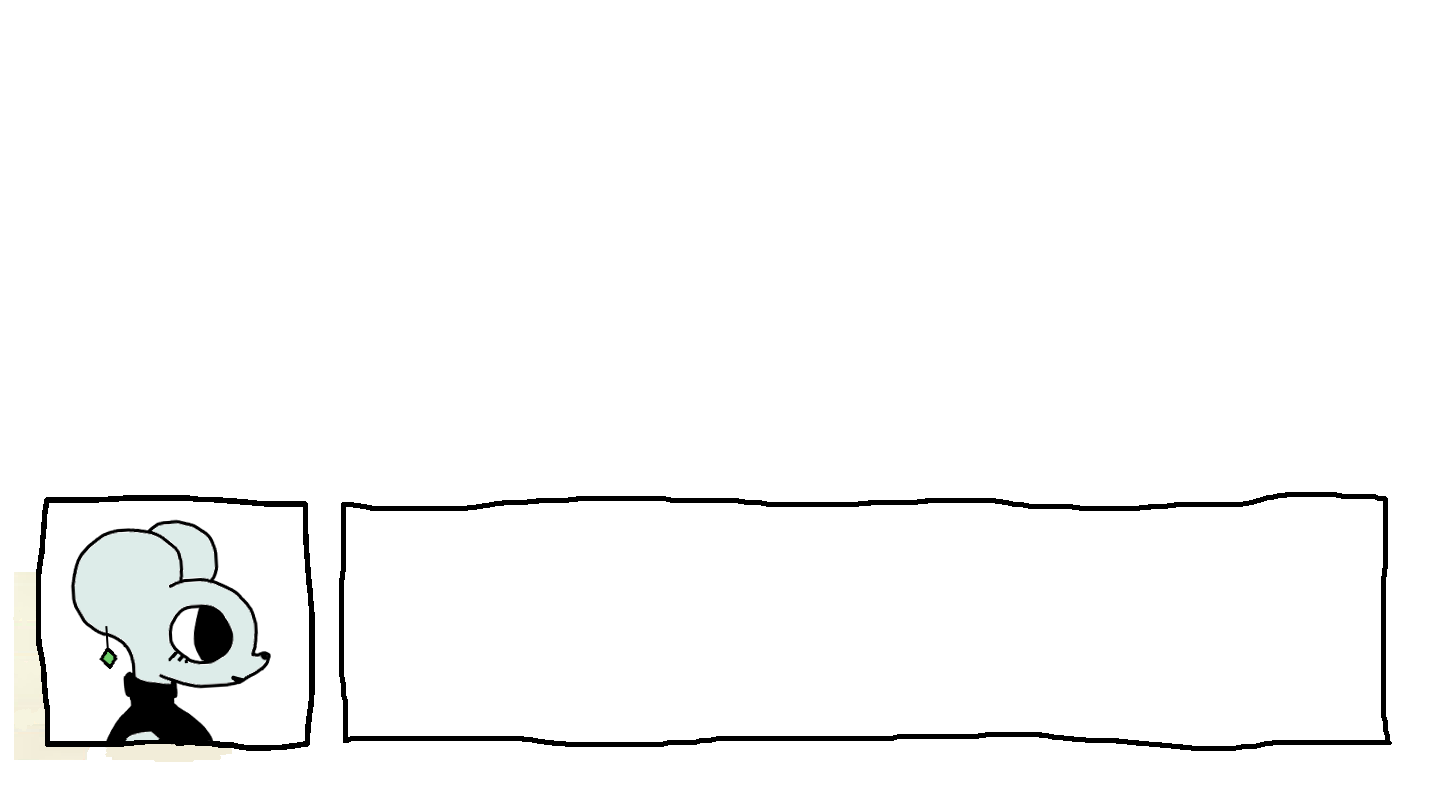
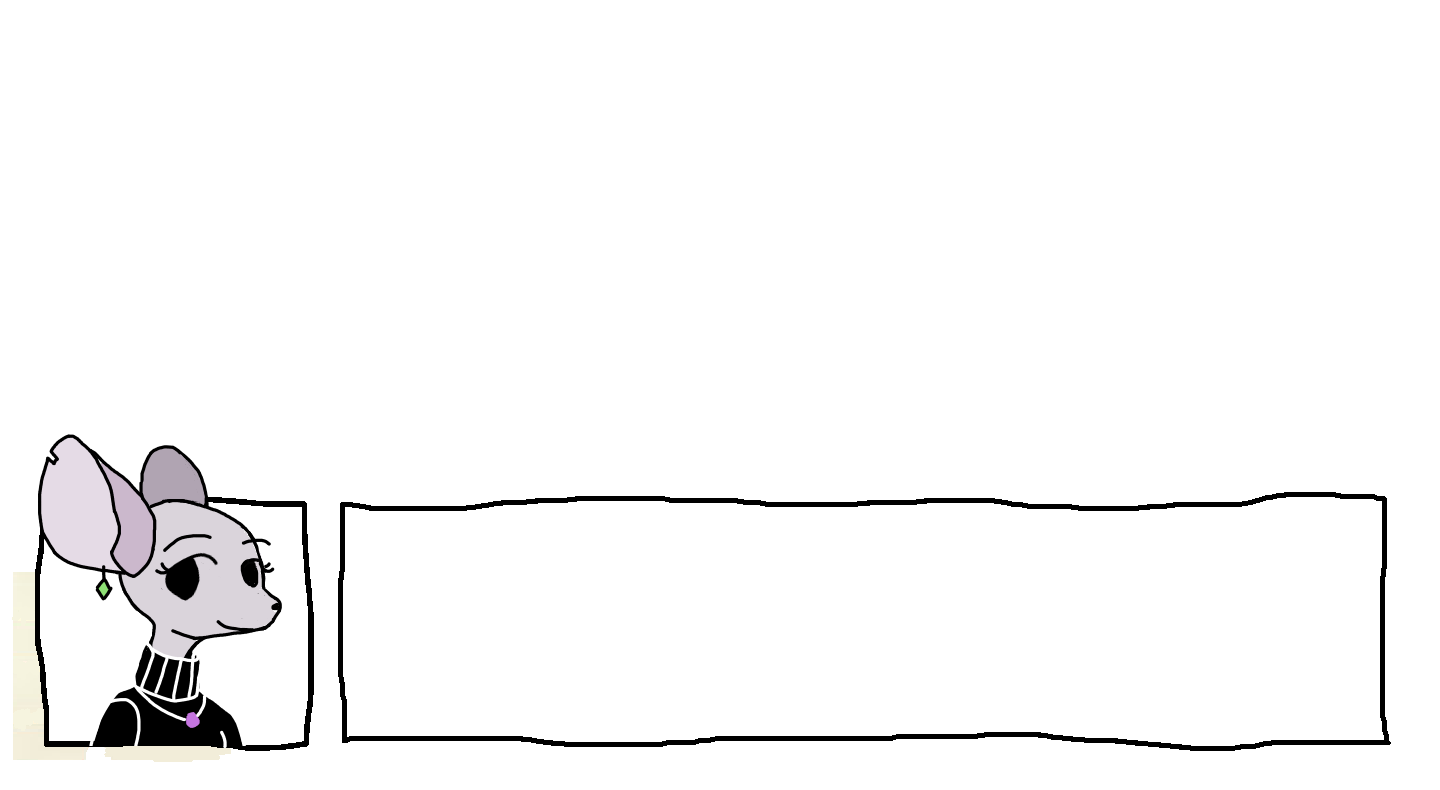
Add files via upload

Changed region(s): [[0.0, 0.5468, 0.2188, 0.9418]]

diff --git a/the-infinite-labyrinth/labyrinth.html b/the-infinite-labyrinth/labyrinth.html
@@ -5,7 +5,9 @@
 
 /*different art for verily*/
 /*candle thunk, rope thwump, unlocking noise for opening both locked panels (chest and alcoves) and for failing to open them
-restart button and home button
+more sounds for click1audio
+smaller plinth?
+from the save point, when moving twice south into the chasm, chasm explorers fails to appear
 */
 
 
@@ -1067,6 +1069,8 @@ display: none;
     <img src="stymielaughglitch.gif" alt="stymie glitch" class="dialogue" id="stymielaughglitch">
     
     <img src="verily.png" alt="verily's default dialogue portrait" class="dialogue" id="vdm">
+    <img src="verilyhappy.png" alt="verily's default dialogue portrait" class="dialogue" id="vhap">
+    <img src="verilyrelax.png" alt="verily's default dialogue portrait" class="dialogue" id="vrel">
     <img src="verilydemure.png" alt="verily's default dialogue portrait" class="dialogue" id="verily">
     <img src="verilysurprised.png" alt="verily's default dialogue portrait" class="dialogue" id="vsup">
     <img src="shuri.png" alt="shuri's default dialogue portrait" class="dialogue" id="shuri">
@@ -1382,7 +1386,7 @@ display: none;
         <p id="zm4">Even though it seems like Stymie apparently consented.</p>
     <p id="zm5">Didn’t we do the essentially same thing when we found her missing data cube?</p>
         <p id="zm6">I don’t know... She made a specific request, didn’t she?</p>
-    <p id="zm7">Did she? I thought it was more like “if you find my data cube, then I can turn off the current for you.”</p>
+    <p id="zm7">Did she? I thought it was more like “if you find my data cube, then I can turn off the electric current for you.”</p>
         <p id="zm8">It certainly seemed like it was part of the puzzle, though. We might not even have been able to get any deeper in without Stymie. Like the labyrinth knew what was missing and wanted us—</p>
         <p id="zm9">Well.</p>
         <p id="zm10">I shouldn’t assume that the labyrinth <i>wants</i> anything, but one thing is clear.</p>
@@ -3745,7 +3749,7 @@ if (event.key === 'Enter' || event.key === ' ') {
      } else if (dialogue.verilyIntro === 11) {
        zk11.style.display = "none";
        zk12.style.display = "block"; //im summer verily
-       v.style.display = "block";
+       vhap.style.display = "block";
        k.style.display = "none";
        dialogue.verilyIntro++;
          return;
@@ -3753,7 +3757,7 @@ if (event.key === 'Enter' || event.key === ' ') {
        zk12.style.display = "none";
        zk13.style.display = "block";
        k.style.display = "block";
-       v.style.display = "none";
+       vhap.style.display = "none";
        dialogue.verilyIntro++;
          return;
      } else if (dialogue.verilyIntro === 13) {
@@ -3828,13 +3832,15 @@ if (event.key === 'Enter' || event.key === ' ') {
      } else if (dialogue.verilyIntro === 23) {
        zk23.style.display = "none";
        zk24.style.display = "block";
-       v.style.display = "block";
+       vrel.style.display = "block";
+       v.style.display = "none";
        dialogue.verilyIntro++;
          return;
      } else if (dialogue.verilyIntro === 24) {
        zk24.style.display = "none";
        zk25.style.display = "block";
        v.style.display = "block";
+       vrel.style.display = "none";
        dialogue.verilyIntro++;
          return;
      } else if (dialogue.verilyIntro === 25) {
@@ -3931,7 +3937,7 @@ if (event.key === 'Enter' || event.key === ' ') {
      } else if (dialogue.verilyIntro === 39) {
         zk39.style.display = "none";
         zk40.style.display = "block";
-       v.style.display = "block";
+       vrel.style.display = "block";
        b.style.display = "none";
        dialogue.verilyIntro++;
          return;
@@ -3939,6 +3945,7 @@ if (event.key === 'Enter' || event.key === ' ') {
      else if (dialogue.verilyIntro === 40) {
         zk40.style.display = "none";
         zk41.style.display = "block";
+        vrel.style.display = "none";
         v.style.display = "block";
        dialogue.verilyIntro++;
          return;
@@ -3969,14 +3976,15 @@ if (event.key === 'Enter' || event.key === ' ') {
      } else if (dialogue.verilyIntro === 45) {
        zk45.style.display = "none";
        zk46.style.display = "block";
-       v.style.display = "block";
+       v.style.display = "none";
+       vrel.style.display = "block";
          dialogue.verilyIntro++;
          return;
      } else if (dialogue.verilyIntro === 46) {
        zk46.style.display = "none";
        zk47.style.display = "block";
        k.style.display = "block";
-       v.style.display = "none";
+       vrel.style.display = "none";
          dialogue.verilyIntro++;
          return;
      } else if (dialogue.verilyIntro === 47) {
